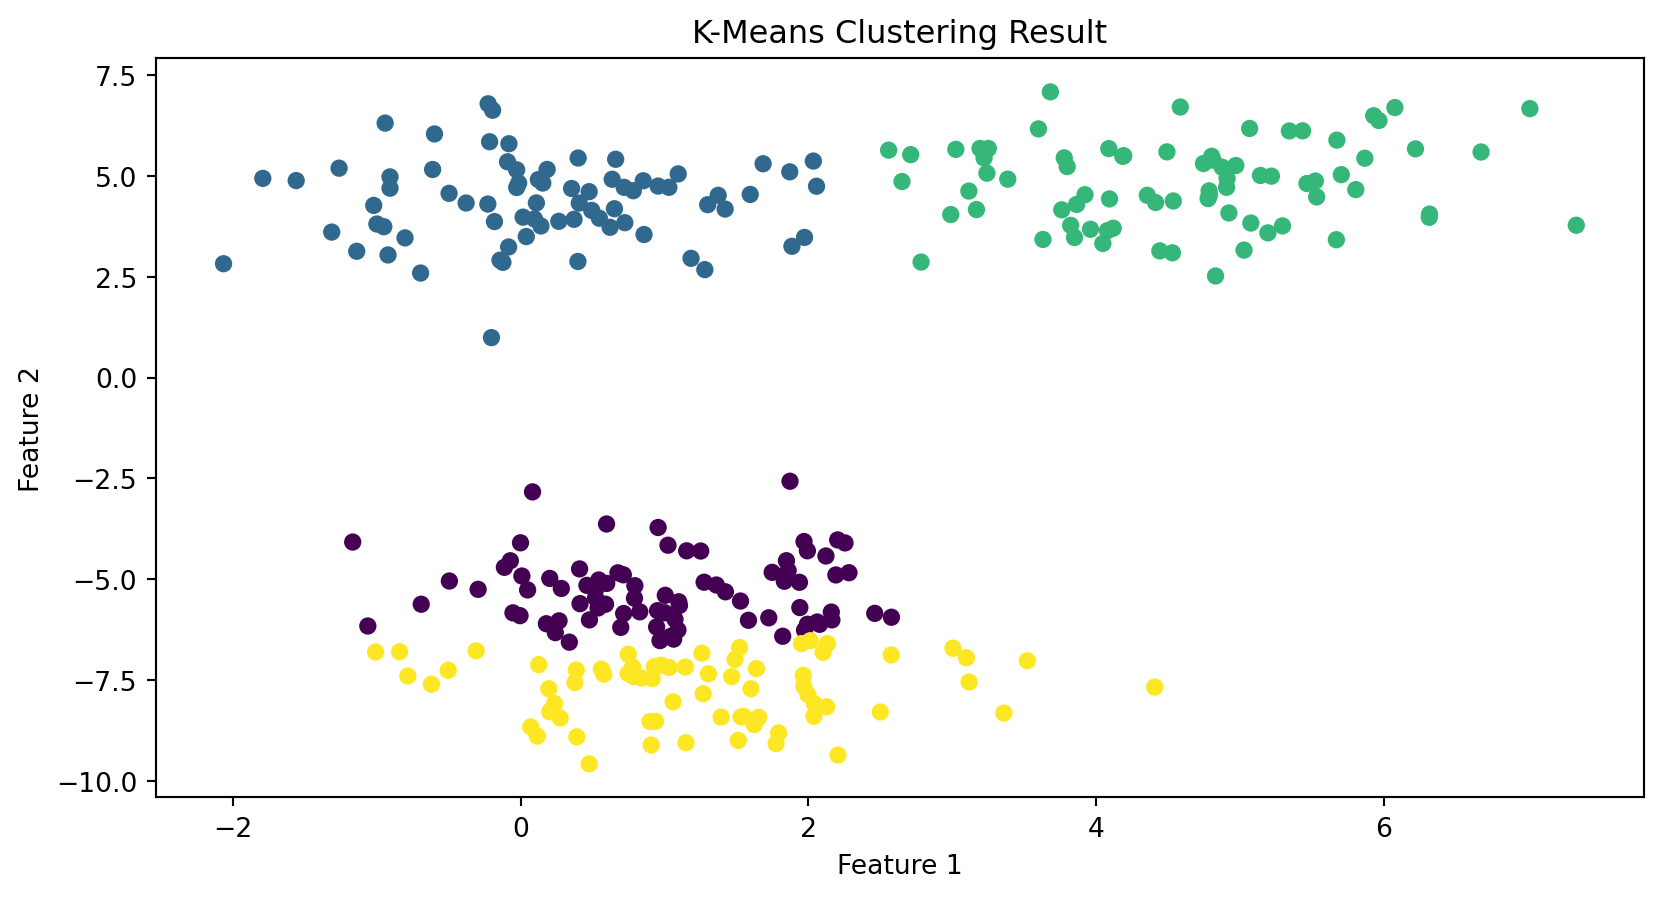
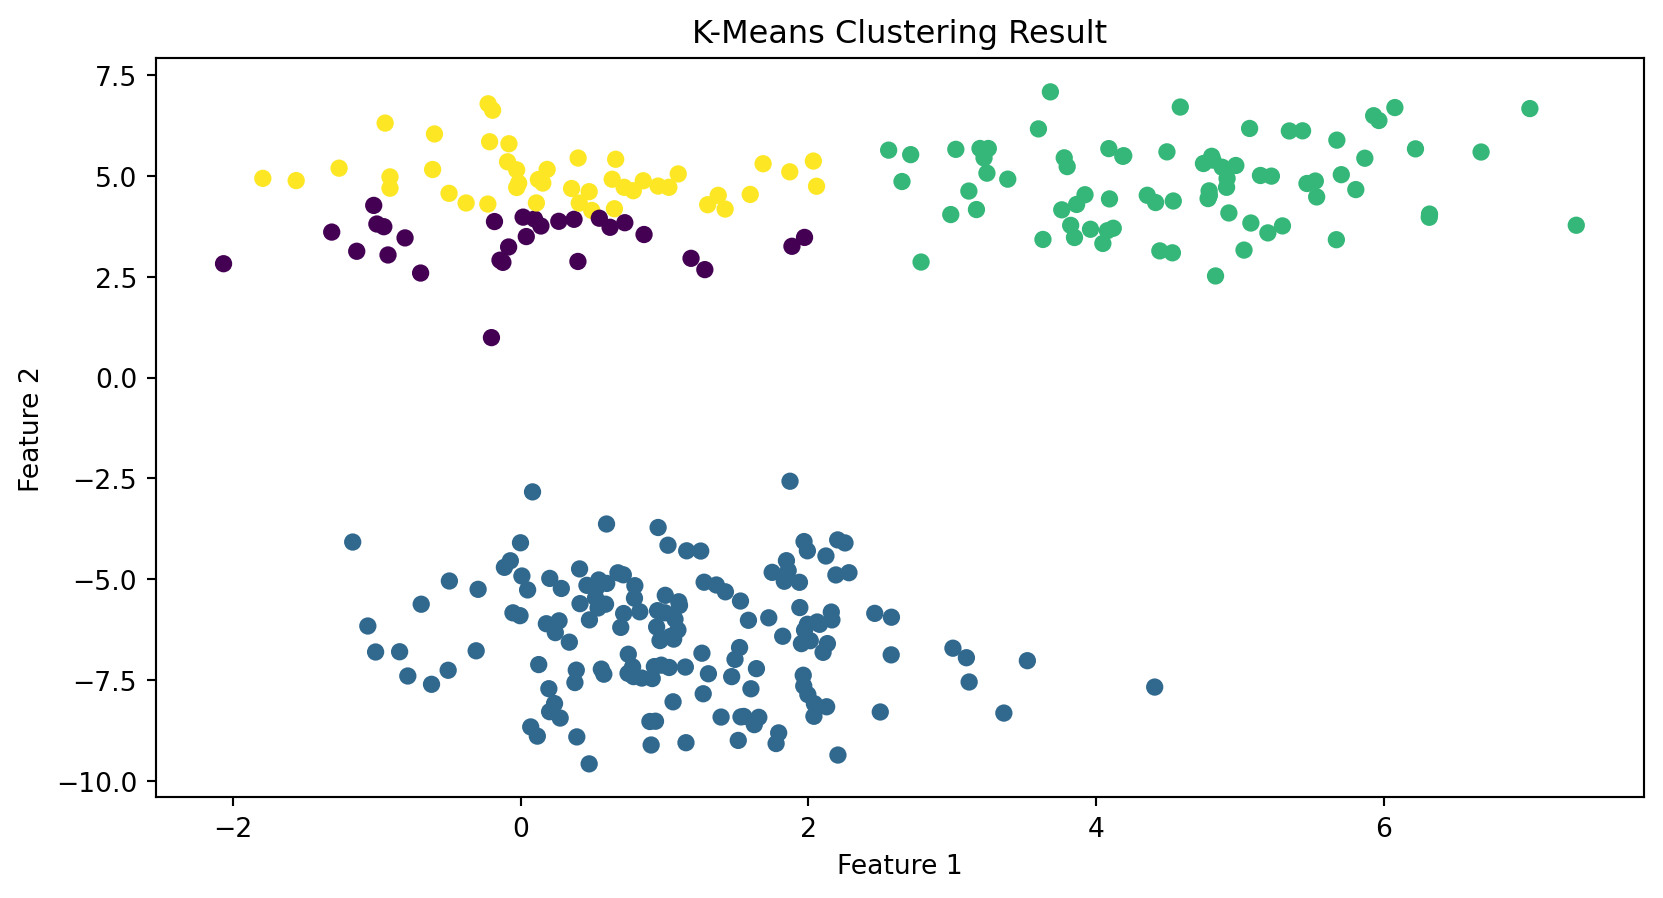
HTML?

diff --git a/topic_presentation/01_unsupervised_learning.html b/topic_presentation/01_unsupervised_learning.html
@@ -307,13 +307,13 @@ Gene expression and cell-type discovery</p></li>
 </section>
 <section id="intuition-behind-clustering" class="slide level2">
 <h2>🧠 Intuition Behind Clustering</h2>
-<p>At a high level, clustering asks:</p>
+<p>At a high level, clustering tells us:</p>
 <ul>
 <li>Which observations look alike?</li>
 <li>Are there natural groupings in the data?</li>
 <li>Do these groupings tell a useful story?</li>
 </ul>
-<p>Clustering is exploratory, not definitive.</p>
+<p>Clustering is an exploratory process</p>
 </section>
 <section id="seeing-clusters" class="slide level2">
 <h2>Seeing Clusters</h2>
@@ -362,7 +362,6 @@ Probabilistic clusters with uncertainty</p></li>
 <li>Interpretability needs</li>
 <li>Computational constraints</li>
 </ul>
-<p>Clustering is as much art as science.</p>
 </section>
 <section id="an-important-caveat" class="slide level2">
 <h2>An Important Caveat</h2>
@@ -372,7 +371,7 @@ Probabilistic clusters with uncertainty</p></li>
 <li>Stable</li>
 <li>Meaningful</li>
 </ul>
-<p>Clustering reveals structure but isn’t automatic proof</p>
+<p>Clustering reveals structure but isn’t automatic proof of relationships</p>
 </section>
 <section id="dimensionality-reduction" class="slide level2">
 <h2>📉 Dimensionality Reduction</h2>
@@ -395,6 +394,28 @@ Probabilistic clusters with uncertainty</p></li>
 </ul>
 <p>It is often used <em>before</em> or <em>alongside</em> clustering.</p>
 </section>
+<section id="common-dimensionality-reduction-methods" class="slide level2">
+<h2>Common Dimensionality Reduction Methods</h2>
+<p>Some widely used techniques include:</p>
+<ul>
+<li><p><strong>PCA (Principal Component Analysis)</strong><br>
+Linear, variance-based, interpretable</p></li>
+<li><p><strong>t-SNE</strong><br>
+Nonlinear, good for visualization</p></li>
+<li><p><strong>UMAP</strong><br>
+Nonlinear, preserves local and global structure</p></li>
+</ul>
+</section>
+<section id="choosing-a-dimensionality-reduction-method" class="slide level2">
+<h2>Choosing a Dimensionality Reduction Method</h2>
+<p>The choice depends on:</p>
+<ul>
+<li>Whether interpretability matters</li>
+<li>Whether the goal is visualization or preprocessing</li>
+<li>Dataset size and structure</li>
+</ul>
+<p>Different methods serve different purposes.</p>
+</section>
 <section id="visualizing-structure" class="slide level2">
 <h2>Visualizing Structure</h2>
 <div class="columns">
@@ -409,38 +430,6 @@ Probabilistic clusters with uncertainty</p></li>
 </div></div>
 <p><strong>These visualizations guide interpretation.</strong></p>
 </section>
-<section id="common-dimensionality-reduction-methods" class="slide level2">
-<h2>Common Dimensionality Reduction Methods</h2>
-<p>Some widely used techniques include:</p>
-<ul>
-<li><p><strong>PCA (Principal Component Analysis)</strong><br>
-Linear, variance-based, interpretable</p></li>
-<li><p><strong>t-SNE</strong><br>
-Nonlinear, good for visualization</p></li>
-<li><p><strong>UMAP</strong><br>
-Nonlinear, preserves local and global structure</p></li>
-</ul>
-</section>
-<section id="pca-a-conceptual-view" class="slide level2">
-<h2>PCA: A Conceptual View</h2>
-<p>Principal Component Analysis:</p>
-<ul>
-<li>Finds directions of maximum variation</li>
-<li>Creates new variables as combinations of original features</li>
-<li>Orders components by how much variance they explain</li>
-</ul>
-<p>PCA is about representation, not prediction.</p>
-</section>
-<section id="choosing-a-dimensionality-reduction-method" class="slide level2">
-<h2>Choosing a Dimensionality Reduction Method</h2>
-<p>The choice depends on:</p>
-<ul>
-<li>Whether interpretability matters</li>
-<li>Whether the goal is visualization or preprocessing</li>
-<li>Dataset size and structure</li>
-</ul>
-<p>Different methods serve different purposes.</p>
-</section>
 <section id="important-limitations" class="slide level2">
 <h2>Important Limitations</h2>
 <p>Dimensionality reduction:</p>
@@ -450,8 +439,8 @@ Nonlinear, preserves local and global structure</p></li>
 <li>Does not guarantee interpretability</li>
 </ul>
 </section>
-<section id="a-natural-question" class="slide level2">
-<h2>A Natural Question</h2>
+<section id="how-to-evaluate" class="slide level2">
+<h2>How to Evaluate?</h2>
 <p>If we reduce dimensions and cluster data:</p>
 <ul>
 <li>How do we know the results are meaningful?</li>
@@ -539,8 +528,8 @@ Measures cluster compactness and separation</p></li>
 </ul>
 <p>Good clusters make sense in context.</p>
 </section>
-<section id="an-important-reality" class="slide level2">
-<h2>An Important Reality</h2>
+<section id="no-best-fit" class="slide level2">
+<h2>No “Best Fit”</h2>
 <p>In unsupervised learning:</p>
 <ul>
 <li>Multiple solutions may be reasonable</li>
@@ -579,7 +568,7 @@ Measures cluster compactness and separation</p></li>
 </section>
 <section class="slide level2">
 
-<div id="074ee472" class="cell" data-execution_count="5">
+<div id="c72cc129" class="cell" data-execution_count="5">
 <div class="sourceCode cell-code" id="cb1"><pre class="sourceCode numberSource python number-lines code-with-copy"><code class="sourceCode python"><span id="cb1-1"><a href=""></a><span class="co"># We are going to create a synthetic dataset with 300 samples</span></span>
 <span id="cb1-2"><a href=""></a></span>
 <span id="cb1-3"><a href=""></a>X, _ <span class="op">=</span> make_blobs(</span>
@@ -596,7 +585,7 @@ Measures cluster compactness and separation</p></li>
 </section>
 <section class="slide level2">
 
-<div id="7a40b4dc" class="cell" data-execution_count="6">
+<div id="a28392f5" class="cell" data-execution_count="6">
 <div class="sourceCode cell-code" id="cb2"><pre class="sourceCode numberSource python number-lines code-with-copy"><code class="sourceCode python"><span id="cb2-1"><a href=""></a>plt.scatter(X[:, <span class="dv">0</span>], X[:, <span class="dv">1</span>], s<span class="op">=</span><span class="dv">30</span>)</span>
 <span id="cb2-2"><a href=""></a>plt.title(<span class="st">"Unlabeled Data"</span>)</span>
 <span id="cb2-3"><a href=""></a>plt.xlabel(<span class="st">"Feature 1"</span>)</span>
@@ -617,10 +606,10 @@ Measures cluster compactness and separation</p></li>
 <h2>Step 3: Applying Clustering</h2>
 <p>We now apply a simple clustering method: <strong>K-Means</strong>.</p>
 <p>We must choose the number of clusters, <span class="math inline">\(k\)</span>.</p>
-<div id="77256444" class="cell" data-execution_count="7">
+<div id="441a1358" class="cell" data-execution_count="7">
 <div class="sourceCode cell-code" id="cb3"><pre class="sourceCode numberSource python number-lines code-with-copy"><code class="sourceCode python"><span id="cb3-1"><a href=""></a><span class="im">from</span> sklearn.cluster <span class="im">import</span> KMeans</span>
 <span id="cb3-2"><a href=""></a></span>
-<span id="cb3-3"><a href=""></a>kmeans <span class="op">=</span> KMeans(n_clusters<span class="op">=</span><span class="dv">4</span>, random_state<span class="op">=</span><span class="dv">42</span>)</span>
+<span id="cb3-3"><a href=""></a>kmeans <span class="op">=</span> KMeans(n_clusters<span class="op">=</span><span class="dv">4</span>, random_state<span class="op">=</span><span class="dv">4915</span>)</span>
 <span id="cb3-4"><a href=""></a>labels <span class="op">=</span> kmeans.fit_predict(X)</span></code><button title="Copy to Clipboard" class="code-copy-button"><i class="bi"></i></button></pre></div>
 </div>
 </section>
@@ -630,7 +619,7 @@ Measures cluster compactness and separation</p></li>
 </section>
 <section class="slide level2">
 
-<div id="96fa579d" class="cell" data-execution_count="8">
+<div id="87033c9d" class="cell" data-execution_count="8">
 <div class="sourceCode cell-code" id="cb4"><pre class="sourceCode numberSource python number-lines code-with-copy"><code class="sourceCode python"><span id="cb4-1"><a href=""></a>plt.scatter(X[:, <span class="dv">0</span>], X[:, <span class="dv">1</span>], c<span class="op">=</span>labels, s<span class="op">=</span><span class="dv">30</span>)</span>
 <span id="cb4-2"><a href=""></a>plt.title(<span class="st">"K-Means Clustering Result"</span>)</span>
 <span id="cb4-3"><a href=""></a>plt.xlabel(<span class="st">"Feature 1"</span>)</span>
@@ -658,7 +647,7 @@ Measures cluster compactness and separation</p></li>
 </section>
 <section class="slide level2">
 
-<div id="ceb34e07" class="cell" data-execution_count="9">
+<div id="6f24a4d9" class="cell" data-execution_count="9">
 <div class="sourceCode cell-code" id="cb5"><pre class="sourceCode numberSource python number-lines code-with-copy"><code class="sourceCode python"><span id="cb5-1"><a href=""></a><span class="im">from</span> sklearn.metrics <span class="im">import</span> silhouette_score</span>
 <span id="cb5-2"><a href=""></a></span>
 <span id="cb5-3"><a href=""></a>score <span class="op">=</span> silhouette_score(X, labels)</span>
@@ -667,8 +656,8 @@ Measures cluster compactness and separation</p></li>
 
 </section>
 <section id="" class="slide level2 output-location-slide"><div class="cell output-location-slide" data-execution_count="9">
-<div class="cell-output cell-output-display" data-execution_count="18">
-<pre><code>np.float64(0.5080053973478434)</code></pre>
+<div class="cell-output cell-output-display" data-execution_count="9">
+<pre><code>np.float64(0.6037566436097677)</code></pre>
 </div>
 </div></section><section id="what-did-this-example-show" class="slide level2">
 <h2>What Did This Example Show?</h2>
